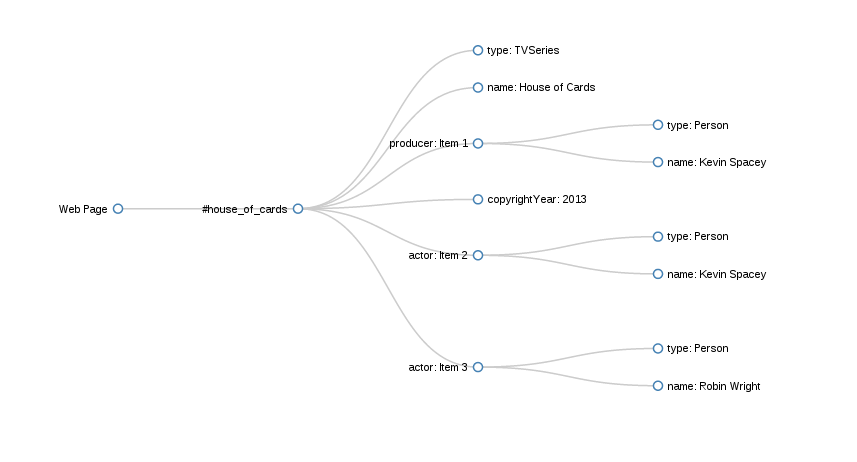
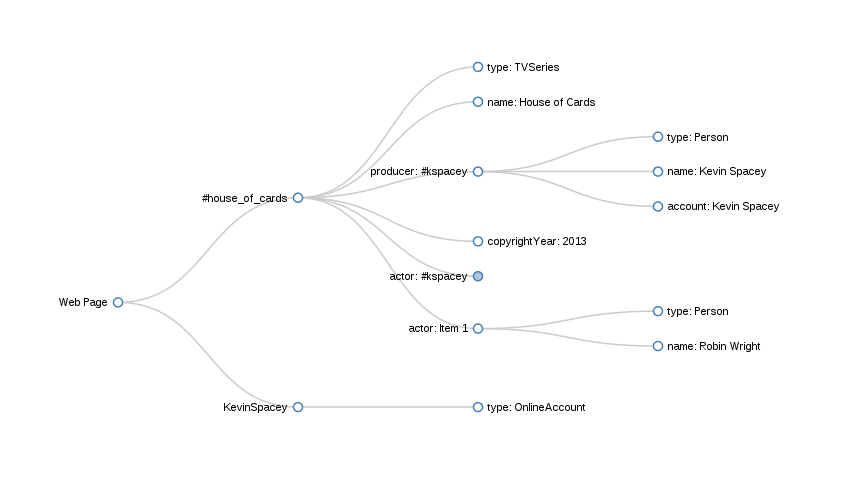
Add coverage of @resource and @prefix
Update the play-generated diagram accordingly.

diff --git a/schema_org.html b/schema_org.html
@@ -174,8 +174,7 @@
                 <section>
                     <h2>HTML + RDFa (basic)</h2>
                 <pre><code data-trim contenteditable>&lt;!DOCTYPE html>
-&lt;div vocab="http://schema.org/" typeof="TVSeries" 
-     resource="#house_of_cards"&gt;
+&lt;div vocab="http://schema.org/" typeof="TVSeries"&gt;
 &lt;h1 property="name"&gt;House of Cards&lt;/h1&gt;
 &lt;p&gt;A political drama produced by 
   &lt;span property="producer"&gt;Kevin Spacey&lt;/span&gt; and released in
@@ -189,13 +188,13 @@
 &lt;/ul&gt;
 &lt;/div&gt;
 </code></pre>
+                    <p>A <code>TVSeries</code> and its attributes</p>
                 </section>
 
                 <section>
                     <h2>HTML + RDFa (nested types)</h2>
                 <pre><code data-trim contenteditable>&lt;!DOCTYPE html>
-&lt;div vocab="http://schema.org/" typeof="TVSeries"
-     resource="#house_of_cards"&gt;
+&lt;div vocab="http://schema.org/" typeof="TVSeries"&gt;
 &lt;h1 property="name"&gt;House of Cards&lt;/h1&gt;
 &lt;p&gt;A political drama produced by
   &lt;span property="producer" typeof="Person"&gt;
@@ -213,6 +212,87 @@
 &lt;/ul&gt;
 &lt;/div&gt;
 </code></pre>
+                    <p>A <code>Person</code> can have attributes other than just <code>name</code></p>
+                </section>
+
+                <section>
+                    <h2>HTML + RDFa (@resource)</h2>
+                <pre><code data-trim contenteditable>&lt;!DOCTYPE html>
+&lt;div vocab="http://schema.org/" typeof="TVSeries"
+     resource="#house_of_cards"&gt;
+&lt;h1 property="name"&gt;House of Cards&lt;/h1&gt;
+&lt;p&gt;A political drama produced by
+  &lt;span property="producer" typeof="Person" resource="#kspacey"&gt;
+    &lt;span property="name"&gt;Kevin Spacey&lt;/span&gt;
+  &lt;/span&gt; and released in
+  &lt;span property="copyrightYear"&gt;2013&lt;/span&gt;
+  directly to Netflix, starring:&lt;/p&gt;
+&lt;ul&gt;
+  &lt;li property="actor" resource="#kspacey"&gt;Kevin Spacey&lt;/li&gt;
+  &lt;li property="actor" typeof="Person"&gt;
+    &lt;span property="name"&gt;Robin Wright&lt;/span&gt;
+  &lt;/li&gt;
+&lt;/ul&gt;
+&lt;/div&gt;
+</code></pre>
+                    <p>Avoiding redundant redundancies!</p>
+
+                    <aside class="notes">
+                    <p>
+                        Defining two separate <strong>Person</strong> types for
+                        the identical Kevin Spacey is unnecessary. Using
+                        <code>@resource</code> to set an identifier for the
+                        first instance enables us to simply reference it the
+                        second time it comes up.
+                    </p>
+                    <p>
+                        Note that <code>@resource</code> can point at external
+                        URLs entirely, and in a real application that would
+                        likely be the pattern.
+                    </p>
+                    </aside>
+                </section>
+
+                <section>
+                    <h2>HTML + RDFa (@prefix)</h2>
+                <pre><code data-trim contenteditable>&lt;!DOCTYPE html>
+&lt;div vocab="http://schema.org/" prefix="foaf: http://xmlns.com/foaf/0.1/"
+     typeof="TVSeries" resource="#house_of_cards"&gt;
+&lt;h1 property="name"&gt;House of Cards&lt;/h1&gt;
+&lt;p&gt;A political drama produced by
+  &lt;span property="producer" typeof="Person" resource="#kspacey"&gt;
+    &lt;span property="name foaf:account"&gt;
+        &lt;a href="https://twitter.com/KevinSpacey"
+           typeof="foaf:OnlineAccount"&gt;Kevin Spacey&lt;/a&gt;
+    &lt;/span&gt;
+  &lt;/span&gt; and released in
+  &lt;span property="copyrightYear"&gt;2013&lt;/span&gt;
+  directly to Netflix, starring:&lt;/p&gt;
+&lt;ul&gt;
+  &lt;li property="actor" resource="#kspacey"&gt;Kevin Spacey&lt;/li&gt;
+  &lt;li property="actor" typeof="Person"&gt;
+    &lt;span property="name"&gt;Robin Wright&lt;/span&gt;
+  &lt;/li&gt;
+&lt;/ul&gt;
+&lt;/div&gt;
+</code></pre>
+                <p>Because the world is described by more than one ontology.</p>
+
+                <aside class="notes">
+                    <p>
+                        Here we want to provide a link to Kevin Spacey's Twitter account.
+                        schema.org does not provide a clear method of identifying specific
+                        online accounts, while FOAF (Friend of a Friend) was designed to
+                        do exactly that. While the <code>foaf</code> prefix is built into
+                        RDFa Lite, it is instructive to demonstrate how it can be declared
+                        using the <code>@prefix</code> attribute and subsequently used.
+                    </p>
+                    <p>
+                        Note that we also have the ability to use multiple
+                        values in each <code>@property</code> or
+                        <code>@typeof</code> attribute, with a mix of vocabularies.
+                    </p>
+                </aside>
                 </section>
 
                 <section>
